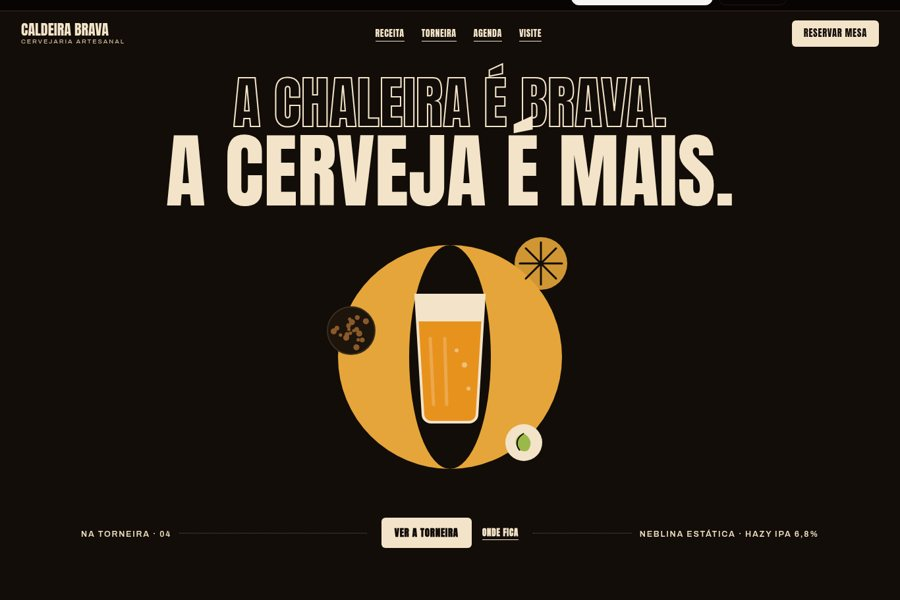
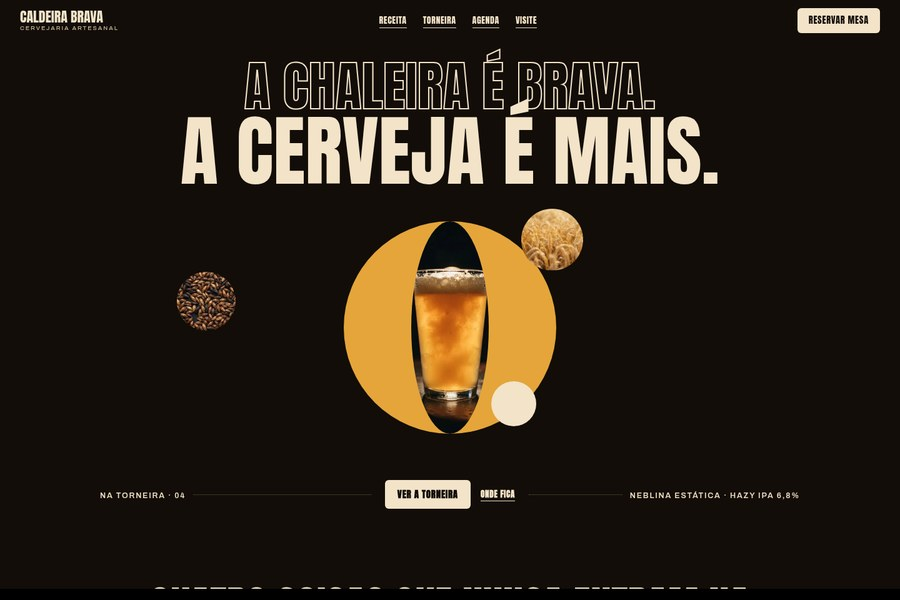
Caldeira Brava: fotos reais (copo, ingredientes) como no pin, cards maiores

diff --git a/src/components/models/CervejariaFold.tsx b/src/components/models/CervejariaFold.tsx
@@ -29,35 +29,21 @@ const Glass = ({ c, s = 120 }: { c: string; s?: number }) => (
   </svg>
 );
 const HeroArt = () => (
-  <svg viewBox="0 0 520 440" className="hart" role="img" aria-label="Copo de cerveja âmbar em um círculo dourado, cercado por ingredientes">
-    <circle cx="260" cy="230" r="170" fill={AMB} />
-    <ellipse cx="260" cy="230" rx="62" ry="170" fill={BG} />
-    <g transform="translate(260 232)">
-      <path d="M-52-96h104l-11 182a12 12 0 0 1-12 11h-58a12 12 0 0 1-12-11z" fill="#e8921e" stroke={CREAM} strokeWidth="4" />
-      <path d="M-52-96h104l-2.500 40h-99z" fill={CREAM} />
-      <path d="M-30-30l5 100M-8-30l3 100" stroke={CREAM} strokeOpacity=".28" strokeWidth="5" strokeLinecap="round" />
-      <circle cx="22" cy="10" r="4" fill={CREAM} opacity=".55" /><circle cx="10" cy="-12" r="3" fill={CREAM} opacity=".55" /><circle cx="28" cy="46" r="3" fill={CREAM} opacity=".55" />
-    </g>
-    <circle cx="398" cy="88" r="40" fill={AMB} opacity=".9" />
-    <g stroke={BG} strokeWidth="3" fill="none" strokeLinecap="round"><path d="M398 56v64M366 88h64M375 65l46 46M421 65l-46 46" /></g>
-    <circle cx="110" cy="190" r="36" fill="#1d140c" stroke={LINE} strokeWidth="2" />
-    <g fill="#8a5a2b">{Array.from({ length: 18 }).map((_, i) => (<circle key={i} cx={110 + Math.cos(i * 2.4) * (4 + (i % 6) * 4.5)} cy={190 + Math.sin(i * 2.4) * (4 + (i % 6) * 4.5)} r={2.600 + (i % 3)} />))}</g>
-    <circle cx="372" cy="360" r="28" fill={CREAM} />
-    <g fill="#9bb84a"><path d="M372 346c10 6 14 16 6 26-8 4-16-2-18-10-2-8 4-14 12-16z" /><path d="M372 346c-10 6-14 16-6 26" stroke={BG} strokeWidth="2" fill="none" /></g>
-  </svg>
-);
-const Disc = ({ k }: { k: "grain" | "hop" | "citrus" | "malt" }) => {
-  const bg = { grain: "#b99655", hop: "#8fa843", citrus: "#e9a93a", malt: "#6b4423" }[k];
-  return (
-    <svg viewBox="0 0 100 100" aria-hidden>
-      <circle cx="50" cy="50" r="50" fill={bg} />
-      {k === "grain" && <g stroke="#6a4f22" strokeWidth="2.500" strokeLinecap="round"><path d="M50 92V28M50 40l-14-12M50 40l14-12M50 54l-16-12M50 54l16-12M50 68l-16-12M50 68l16-12M50 28v-14" /></g>}
-      {k === "hop" && <g fill="#c9dc72" stroke="#4b6020" strokeWidth="2"><path d="M50 20c18 4 26 22 18 40-6 12-14 20-18 22-4-2-12-10-18-22-8-18 0-36 18-40z" /><path d="M50 30v44M38 40c6 4 18 4 24 0M36 52c8 6 20 6 28 0" fill="none" /></g>}
-      {k === "citrus" && <g><circle cx="50" cy="50" r="38" fill="#f6d27a" stroke="#fff3d0" strokeWidth="5" /><g stroke="#fff3d0" strokeWidth="3"><path d="M50 14v72M14 50h72M24 24l52 52M76 24L24 76" /></g></g>}
-      {k === "malt" && <g fill="#2e1a0b">{Array.from({ length: 14 }).map((_, i) => (<ellipse key={i} cx={50 + Math.cos(i * 2.2) * (6 + (i % 5) * 7)} cy={50 + Math.sin(i * 2.2) * (6 + (i % 5) * 7)} rx="6" ry="3.500" transform={`rotate(${i * 40} ${50 + Math.cos(i * 2.2) * (6 + (i % 5) * 7)} ${50 + Math.sin(i * 2.2) * (6 + (i % 5) * 7)})`} />))}</g>}
+  <div className="hart" role="img" aria-label="Copo de cerveja âmbar em um círculo dourado, cercado por ingredientes">
+    <svg viewBox="0 0 520 440" style={{ position: "absolute", inset: 0, width: "100%", height: "100%" }}>
+      <defs><clipPath id="cpEl"><ellipse cx="260" cy="230" rx="62" ry="170" /></clipPath></defs>
+      <circle cx="260" cy="230" r="170" fill={AMB} />
+      <image href="/cald-copo.webp" x="198" y="60" width="124" height="340" preserveAspectRatio="xMidYMid slice" clipPath="url(#cpEl)" />
+      <circle cx="362" cy="352" r="36" fill={CREAM} />
     </svg>
-  );
-};
+    <img src="/cald-graos.webp" alt="" style={{ position: "absolute", left: "-34%", top: "32%", width: "18%", borderRadius: "50%", objectFit: "cover", aspectRatio: "1" }} />
+    <img src="/cald-ouro.webp" alt="" style={{ position: "absolute", left: "72%", top: "9%", width: "19%", borderRadius: "50%", objectFit: "cover", aspectRatio: "1" }} />
+  </div>
+);
+const DISC = { grain: "/cald-trigo.webp", hop: "/cald-lupulo.webp", citrus: "/cald-bokeh.webp", malt: "/cald-cevada.webp" };
+const Disc = ({ k }: { k: "grain" | "hop" | "citrus" | "malt" }) => (
+  <img src={DISC[k]} alt="" aria-hidden style={{ width: "100%", height: "100%", borderRadius: "50%", objectFit: "cover", aspectRatio: "1", display: "block" }} />
+);
 
 export function CervejariaFold({ client }: { client?: { name?: string; whatsapp?: string; city?: string } }) {
   const brand = client?.name?.trim() || "Caldeira Brava";
@@ -94,7 +80,7 @@ export function CervejariaFold({ client }: { client?: { name?: string; whatsapp?
         .cv .hero h1{margin:0}
         .cv .h1a{font-size:clamp(34px,7.4vw,86px);display:block;color:transparent;-webkit-text-stroke:2px ${CREAM}}
         .cv .h1b{font-size:clamp(44px,10.2vw,124px);display:block;margin-top:4px}
-        .cv .hart{width:min(520px,86%);height:auto;display:block;margin:-6px auto 0}
+        .cv .hart{position:relative;width:min(520px,86%);aspect-ratio:520/440;display:block;margin:-6px auto 0}
         .cv .strip{display:grid;grid-template-columns:1fr auto 1fr;gap:22px;align-items:center;margin:34px auto 0;max-width:1200px;padding:0 28px;font-size:12.5px;letter-spacing:.14em;text-transform:uppercase;font-weight:600;color:#ecdcc0}
         .cv .strip .l{border-top:1.5px dotted #6b5a42;position:relative;height:0}
         .cv .strip .l span{position:absolute;top:-8px;background:${BG};padding:0 12px;white-space:nowrap}
@@ -103,15 +89,15 @@ export function CervejariaFold({ client }: { client?: { name?: string; whatsapp?
         .cv .strip .mid a:last-child{color:${CREAM};border-bottom:1.5px solid ${CREAM};text-decoration:none;font-family:Anton;font-size:13px;letter-spacing:.06em;padding-bottom:1px}
         .cv .sec{padding:120px 0 0}
         .cv .t2{font-size:clamp(34px,5.6vw,66px);line-height:1.08;text-align:center;margin:0 0 56px}
-        .cv .rules{position:relative;max-width:300px;margin:0 auto}
+        .cv .rules{position:relative;max-width:410px;margin:0 auto}
         .cv .rule{background:#17100a;border:1px solid ${LINE};border-radius:10px;margin-bottom:-4px}
-        .cv .rule h3{margin:0;background:${CREAM};color:${BG};font-family:Anton;font-weight:400;text-transform:uppercase;font-size:15px;padding:10px 14px;border-radius:8px 8px 0 0;display:flex;justify-content:space-between;align-items:center}
+        .cv .rule h3{margin:0;background:${CREAM};color:${BG};font-family:Anton;font-weight:400;text-transform:uppercase;font-size:19px;padding:12px 18px;border-radius:8px 8px 0 0;display:flex;justify-content:space-between;align-items:center}
         .cv .rule h3:before,.cv .rule h3:after{content:"";width:6px;height:6px;border-radius:50%;background:${BG}}
-        .cv .rule p{margin:0;padding:16px 18px 20px;font-size:14px;line-height:1.5;text-align:center;color:#ece0c9}
+        .cv .rule p{margin:0;padding:20px 26px 26px;font-size:17px;line-height:1.5;text-align:center;color:#ece0c9}
         .cv .rule:nth-child(1){transform:rotate(-1.200deg)}.cv .rule:nth-child(2){transform:translateX(56px) rotate(1deg)}.cv .rule:nth-child(3){transform:translateX(-10px) rotate(-1.500deg)}.cv .rule:nth-child(4){transform:translateX(46px) rotate(1.200deg)}
-        .cv .discs{position:absolute;inset:0;pointer-events:none}
-        .cv .discs svg{position:absolute;width:112px;height:112px}
-        .cv .dr{display:none;justify-content:center;gap:14px;margin:-22px 0 26px}.cv .dr svg{width:52px;height:52px}
+        .cv .discs{position:absolute;top:0;bottom:0;left:calc(50% - 50vw);width:100vw;pointer-events:none}
+        
+        .cv .dr{display:none;justify-content:center;gap:14px;margin:-22px 0 26px}.cv .dr img{width:52px!important;height:52px!important;flex:none}
         .cv .rwrap{position:relative;max-width:900px;margin:0 auto;padding-bottom:10px}
         .cv .pour{text-align:center;padding:130px 0 0}
         .cv .pour .a{font-size:clamp(28px,4vw,46px)}
@@ -138,7 +124,7 @@ export function CervejariaFold({ client }: { client?: { name?: string; whatsapp?
           .cv .links,.cv .nav .btn{display:none}.cv .burger{display:block}.cv .nav{padding:0 12px 0 18px}
           .cv .wrap{padding:0 20px}.cv .sec{padding-top:76px}.cv .pour{padding-top:84px}
           .cv .out,.cv .h1a{-webkit-text-stroke-width:1.5px}
-          .cv .rwrap{max-width:350px}.cv .rules{max-width:270px;margin-left:0}
+          .cv .rwrap{max-width:350px}.cv .rules{max-width:270px;margin-left:0}.cv .rule h3{font-size:15px;padding:10px 14px}.cv .rule p{font-size:14px;padding:16px 18px 20px}
           .cv .rule:nth-child(2){transform:translateX(40px) rotate(1deg)}.cv .rule:nth-child(4){transform:translateX(34px) rotate(1.200deg)}
           .cv .discs{display:none}.cv .dr{display:flex!important}
           .cv .taps{grid-template-columns:1fr}
@@ -167,10 +153,10 @@ export function CervejariaFold({ client }: { client?: { name?: string; whatsapp?
         <div className="dr"><Disc k="grain" /><Disc k="hop" /><Disc k="malt" /><Disc k="citrus" /></div>
         <div className="rwrap">
           <div className="discs">
-            <div style={{ position: "absolute", left: "0%", top: "2%" }}><Disc k="grain" /></div>
-            <div style={{ position: "absolute", right: "-2%", top: "16%" }}><Disc k="hop" /></div>
-            <div style={{ position: "absolute", left: "8%", top: "58%" }}><Disc k="malt" /></div>
-            <div style={{ position: "absolute", right: "0%", top: "74%" }}><Disc k="citrus" /></div>
+            <div style={{ position: "absolute", left: "6%", top: "2%", width: "17vw", height: "17vw" }}><Disc k="grain" /></div>
+            <div style={{ position: "absolute", right: "9%", top: "16%", width: "11vw", height: "11vw" }}><Disc k="hop" /></div>
+            <div style={{ position: "absolute", left: "13%", top: "58%", width: "10vw", height: "10vw" }}><Disc k="malt" /></div>
+            <div style={{ position: "absolute", right: "6%", top: "74%", width: "18vw", height: "18vw" }}><Disc k="citrus" /></div>
           </div>
           <div className="rules">{RULES.map((r) => (<div className="rule" key={r.t}><h3>{r.t}</h3><p>{r.d}</p></div>))}</div>
         </div>
